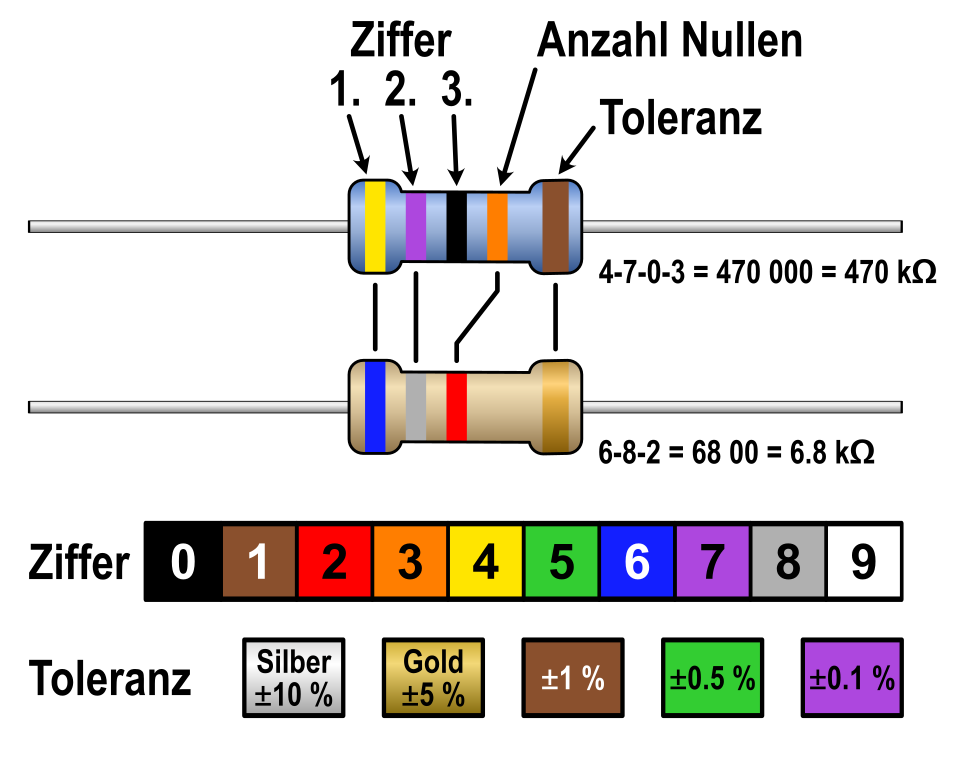
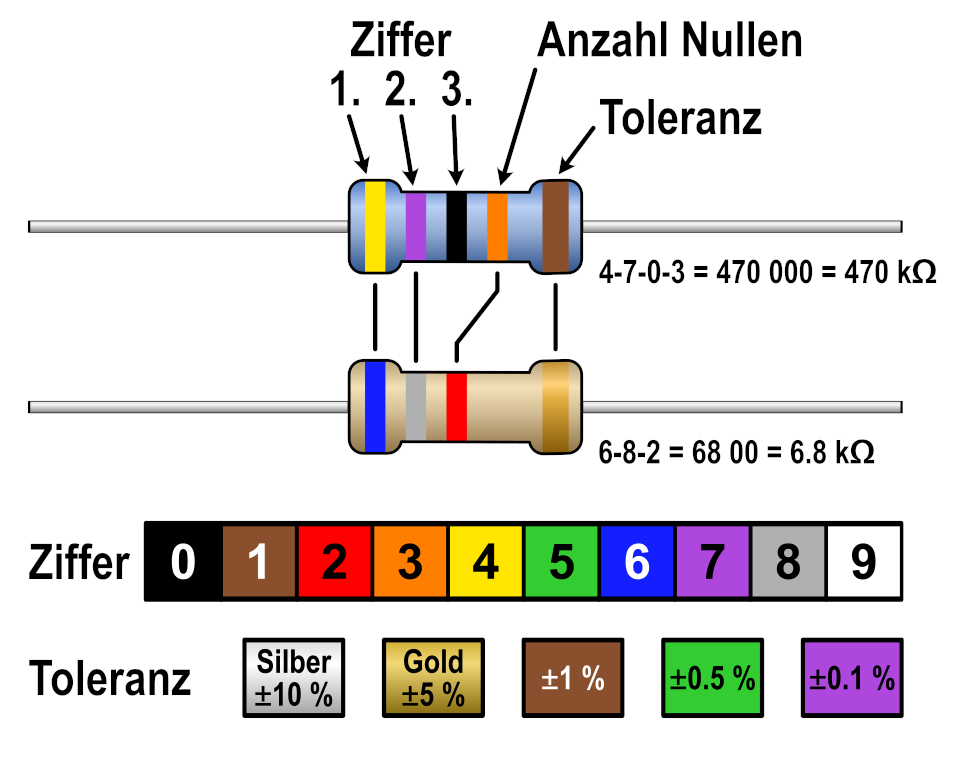
fixed images

diff --git a/README.md b/README.md
@@ -126,7 +126,7 @@ Auf dem Foto der Platine sitzt D14 unten rechts am Rand. Achte beim Einbau darau
 
 ## Platine Aufbau
 
-![Platine Aufbau](./images/platine-aufbau_v5.01.png)
+![Platine Aufbau](images/platine-aufbau_v5.01.png)
 
 ## Schaltung
 
